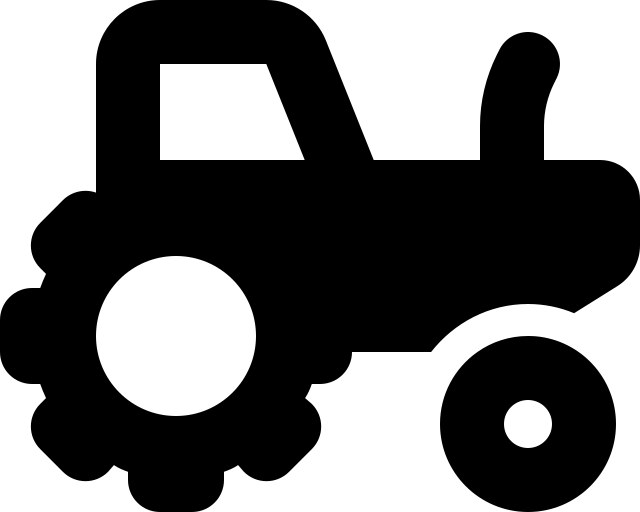
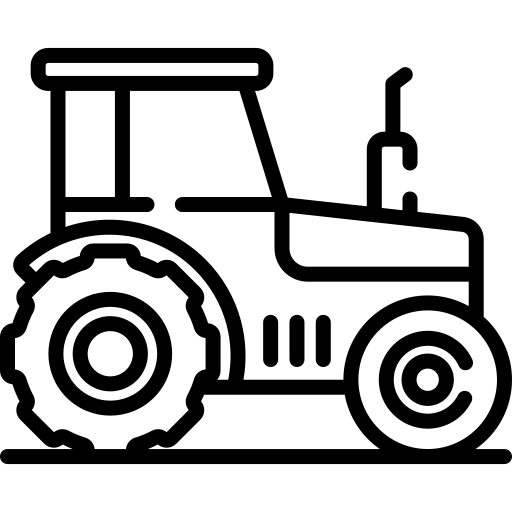
mudando icones e retirando partes não usadas no código

diff --git a/src/Components/PositionEquipment/index.tsx b/src/Components/PositionEquipment/index.tsx
@@ -5,13 +5,14 @@ import { useDispatch, useSelector } from 'react-redux';
 import { RootState } from '../store';
 import { TypeFilter } from '../@types';
 import { setId } from '../store/equipmentId';
+import { Fragment } from 'react';
 
 const PositionEquipment = () => {
 
     const dispatch = useDispatch()
     let filters: TypeFilter = useSelector((state: RootState)=>state.filterSlice.filter)
     return (
-        <>
+        <Fragment>
         {equipmentPositionHistory.map((item, index)=>(
             (filters.nome==takeModelEquipment(item.equipmentId).name || filters.nome == 'todos') &&
             (filters.situation==EquipmentStateActual(item.equipmentId)  || filters.situation == 'todos')
@@ -31,14 +32,13 @@ const PositionEquipment = () => {
                             Nome: {takeNameEquipment(item.equipmentId).name}<br/>
                             Modelo: {takeModelEquipment(item.equipmentId).name}<br/>
                             Estado Atual:  { EquipmentStateActual(item.equipmentId) }<br/>
-                            id:  { item.equipmentId }<br/>
                         </Popup>
 
                     </Marker>
 
                 ) : ''
         ))}
-        </>
+        </Fragment>
     )
 }
 

diff --git a/src/Components/NavMenu/index.tsx b/src/Components/NavMenu/index.tsx
@@ -1,10 +1,10 @@
-import React, { useState } from 'react';
 import { Container} from 'react-bootstrap';
+import { HiOutlineLogout } from 'react-icons/hi'
 import hooks from '../assets/hooks';
 import logo from '../assets/img/aiko-logo.png'
 import * as S from './style'
 
-const NavMenu: React.FC = () => {
+const NavMenu = () => {
 
   const {rolagem, scroll} = hooks()
 
@@ -15,6 +15,9 @@ const NavMenu: React.FC = () => {
         <Container fluid>
           <S.StyledA href='https://aiko.digital' target='_blank' >
             <S.StyledImg src= {logo} />
+          </S.StyledA>
+          <S.StyledA href='https://aiko.digital' target='_blank'> 
+            <HiOutlineLogout size={25} />
           </S.StyledA>
         </Container>
     </S.StyledNavBar>

diff --git a/src/Components/PositionHistory/index.tsx b/src/Components/PositionHistory/index.tsx
@@ -1,4 +1,3 @@
-import equipmentPositionHistory from '../assets/data/equipmentPositionHistory.json'
 import { Marker, Popup } from 'react-leaflet';
 import { EquipmentStateActual, takeModelEquipment, defineIcon, DataConvert, takeHistoryPostion, takeNameEquipment } from '../assets/helpers';
 import { useSelector } from 'react-redux';
@@ -14,7 +13,6 @@ const PositionHistyory = () => {
             <Popup>
                 Modelo: {takeModelEquipment(idEquipment).name}<br/>
                 Nome: {takeNameEquipment(idEquipment).name}<br/>
-                Ordem no historico: {index}<br/>
                 Estado Atual:  { EquipmentStateActual(idEquipment) }<br/>
                 Data:  {DataConvert(item.date) }<br/>
             </Popup>

diff --git a/src/Components/NavMenu/style.ts b/src/Components/NavMenu/style.ts
@@ -7,12 +7,14 @@ interface props{
 
 export const StyledNavBar = styled(Navbar)<props>`
     background-color: white;
+    display: flex;
     border-bottom: 1px rgb(214 222 235) solid;
     position: fixed;
     width: 100%;
     z-index: 9999;
     transition: all 0.7s ease-in-out 0s;
     top: ${props => props.active};
+    justify-content: space-between;
 `
 
 export const StyledImg = styled.img`
@@ -21,9 +23,9 @@ export const StyledImg = styled.img`
 `
 
 export const StyledA = styled.a`
-    margin: auto;
     width: 8%;
-    text-align: center;
+    text-align: end;
+    margin: 0 2%;
     @media screen and (max-width: 768px) {
         width: 18%;
     }

diff --git a/src/Components/TabelState/index.tsx b/src/Components/TabelState/index.tsx
@@ -1,11 +1,9 @@
-import React from 'react';
-import { Container, Table } from 'react-bootstrap';
 import { useSelector } from 'react-redux';
 import {  DataConvert, EquipmentStateHistory } from '../assets/helpers';
 import { RootState } from '../store';
 import * as S from './style'
 
-const TabelState: React.FC = () => {
+const TabelState = () => {
 
   const idEquipment = useSelector((state: RootState)=>state.IdSlice.id)
 

diff --git a/src/Components/Map/index.tsx b/src/Components/Map/index.tsx
@@ -1,11 +1,11 @@
-import { MapContainer, TileLayer } from 'react-leaflet'
-import "leaflet/dist/leaflet.css"
+import { TileLayer } from 'react-leaflet'
 import { LatLngExpression } from 'leaflet'
+import {ReactNode} from 'react'
+import "leaflet/dist/leaflet.css"
 import * as S from'./style'
-import React from 'react'
 
 interface Props{
-    children: React.ReactNode,
+    children: ReactNode,
     height: string
 }
 

diff --git a/src/Components/assets/helpers/index.ts b/src/Components/assets/helpers/index.ts
@@ -7,7 +7,7 @@ import { HistoryPosition, NameState, StateEquipment } from '../../@types'
 import L from 'leaflet'
 import tracto from '../img/iconTractor.png'
 import logo from '../img/aiko.png'
-import harvester from '../img/harvester.jpg'
+import harvester from '../img/harvester.png'
 import garra from '../img/garra.png'
 
 export const lastPosition = (array:any[]) => {

diff --git a/src/App.tsx b/src/App.tsx
@@ -1,6 +1,6 @@
 import { Provider } from 'react-redux'
-import Home from './Components/pages/Home'
 import { store } from './Components/store'
+import Home from './Components/pages/Home'
 
 
 function App() {

diff --git a/src/Components/Footer/index.tsx b/src/Components/Footer/index.tsx
@@ -1,6 +1,6 @@
-import * as S from './style'
 import { BsWhatsapp } from 'react-icons/bs'
 import { AiOutlineMail } from 'react-icons/ai'
+import * as S from './style'
 
 const Footer = () => {
   return (

diff --git a/src/Components/TabelState/style.ts b/src/Components/TabelState/style.ts
@@ -16,6 +16,7 @@ export const StyledContainer = styled(Container)`
     @media screen and (max-width: 768px) {
         width: 96%;
         margin-top: 2%;
+        margin-bottom: 4%;
 }
 `
 

diff --git a/src/Components/pages/Home/index.tsx b/src/Components/pages/Home/index.tsx
@@ -40,7 +40,6 @@ const Home = () => {
 
         </S.StyledContainer>
         <Footer/>
-
     </Fragment>
   )
 }
